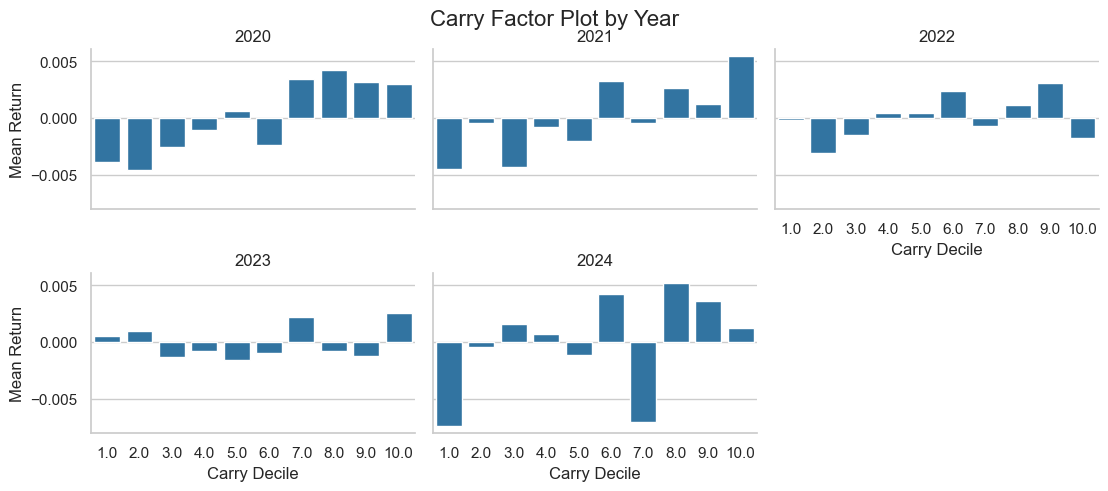
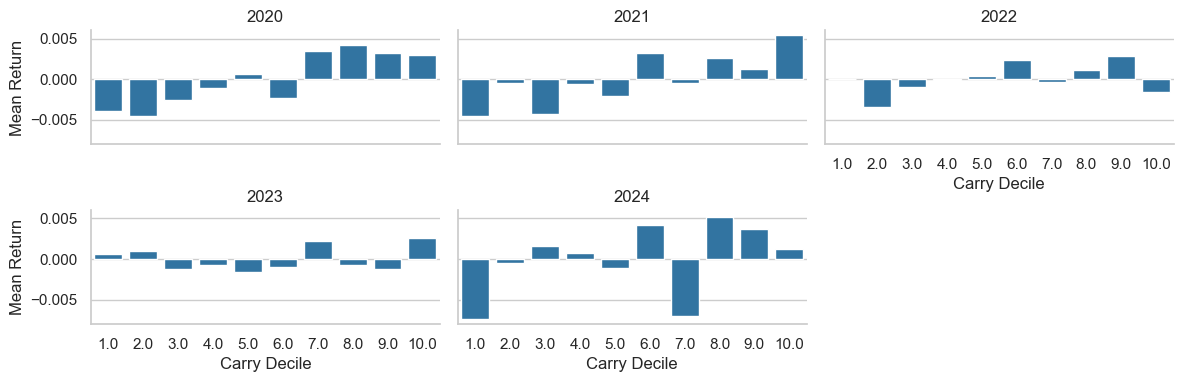
changes

diff --git a/_posts/2024-03-11-crypto-stat-arb-II.md b/_posts/2024-03-11-crypto-stat-arb-II.md
@@ -212,3 +212,24 @@ Further zooming in on turnover of a randomly chosen week:
 </center>
 
 ## Backtesting a Dynamically Weighted Strategy
+
+In this article, [How to Model Features as Expected Returns](https://robotwealth.com/how-to-model-features-as-expected-returns/), Kris shows how to convert the raw signals into returns. He regresses momentum and carry weights on a historical 90 day window of demeaned returns, and breakout on the same window of returns. The model coefficients are used recalculated every 10 days to capture the changing relationship between deciles and returns. 
+
+<center>
+<img src="{{ site.imageurl }}/CryptoStatArb/images_research/16_carry_dec_year.png" style="width:100%;"/>
+</center>
+
+For example, examining carry deciles against cross-sectional returns over the years reveals a more nuanced trend, but the relationship is still visible.
+
+<center>
+<img src="{{ site.imageurl }}/CryptoStatArb/images_research/15_momo_dec_year.png" style="width:100%;"/>
+</center>
+
+Momentum looks even noisier with no visible relationship.
+
+
+<center>
+<img src="{{ site.imageurl }}/CryptoStatArb/images_research/17_breakout_dec_year.png" style="width:100%;"/>
+</center>
+
+Kris regresses momentum and carry on cross-sectional returns to estimate it, but does not use the linear model for the breakout feature. Instead, we will estimate cross-sectional returns with momentum, carry and breakout, then blend the coefficients times weights + intercept for the return estimate, and that will be our weights.
